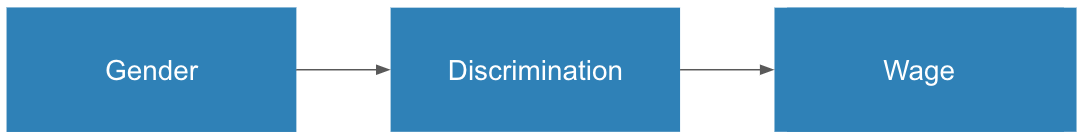
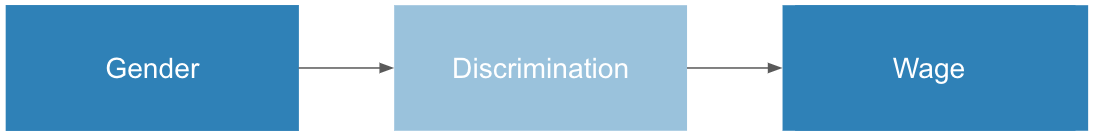
finished post

diff --git a/_posts/2020-01-20-what-are-we-normalizing.md b/_posts/2020-01-20-what-are-we-normalizing.md
@@ -5,9 +5,9 @@ title: What are we normalizing for?
 
 Statistics is the science of answering questions through the data.
 
-The gender pay gap debate falls victim to this. Part of the reason why this debate is still on-going, despite the abundance of data that exists, is that statisticians can't seem to agree how to interpret at the data.
+The gender pay gap debate falls victim to this. Part of the reason why this debate is still on-going, despite the abundance of data that exists, is that **statisticians can't seem to agree on how to interpret the data**.
 
-Before going further, I'd like to say that I'm not taking a position on the gender wage gap. I just want to highlight the deficiencies in these debates and to offer an alternative way to think about these debates, as well as a framework for thinking about statistical claims in general. Namely, **these debates make no sense without first agreeing on an underlying model of how the data is generated**.
+Before going further, I'd like to say that I'm not taking a position on the gender wage gap. I just want to highlight the deficiencies in these debates and to offer a framework for thinking about statistical claims in general. Namely, **these debates make no sense without first agreeing on an underlying model of how the data is generated**.
 
 The question most sociologists are debating is this:
 
@@ -17,21 +17,31 @@ Here's an alternative view of this question:
 
 ![image]({{ site.baseurl }}/images/normalization/wage-gap-question.png)
 
-Because "discrimination" isn't really measurable in the traditional sense, it's unobservable. Instead, we measure the correlation between the two observable variables in this diagram. Gender and wage.
+This diagram specifies a plausible mechanism for producing data that shows a wage gap. To put it another way, this is a model of the data generation process. It specifies causal effects different factors have on each other (gender causes discrimination which causes a wage gap).
+
+Because "discrimination" isn't really measurable in the traditional sense, it's unobservable, which is why I colored it lighter. Instead, sociologists measure the correlation between the two observable variables in this diagram, gender and wage, which show that women on aggregate make 82% of men.
 
 ### Wait... Correlation is not Causation?
 
-It's a well established fact that women on average make 82% of men. But, if you recall from high school statistics: "correlation does not imply causation".
+The fact that there is a wage gap is indisputable, so why is this still an ongoing debate? If you recall from high school statistics: "correlation does not imply causation".
 
-When Jordan Peterson was confronted with this fact, he argued _"If you're a social scientist worth your salt, you never do a univariate analysis"_. What he means is that we need to normalize for certain factors. One factor he mentions is occupation. Let's think about that a bit deeper.
+Sociologist Jordan Peterson was confronted with this fact in [an interview](https://www.youtube.com/watch?v=Xg2psply4no&t=92s) about the wage gap. He argued _"If you're a social scientist worth your salt, you never do a univariate analysis"_. What he means is that we need to normalize for many factors before concluding that discrimination is the cause for the wage gap. One factor he mentions is occupation. Let's think about that a bit deeper.
 
-What Peterson arguing is that perhaps, one of the reason for men making more than women is actually due to differences in occupations. Maybe through a mechanism like this:
+What Dr. Peterson arguing is that perhaps one of the reasons men make more than women is actually due to differences in choices of occupation between men and women. Maybe through a mechanism like this:
 
-![image]({{ site.baseurl }}/images/normalization/no-discrimination.png)
+![image]({{ site.baseurl }}/images/normalization/no-discrimination-1.png)
+
+This causal diagram suggests a different mechanism than the one we saw earlier. Women tend to choose different occupations than men. These occupations are lower paying. Therefore, women make less than men. The diagram shows both discrimination and occupational choices contribute to the wage gap. In order to quantify how much discrimination contributes, Dr. Peterson argues we need to **normalize for occupational** choices.
+
+If we do this, we will find that a significant amount of the wage gap "disappears" after normalizing for occupation. Dr. Peterson would perhaps argue that the world behaves more like this:
+
+![image]({{ site.baseurl }}/images/normalization/no-discrimination-2.png)
+
+Where differences in occupational choices contributes much more to the wage gap than discrimination does.
 
 ### Sidebar on Statistical Confounders
 
-In this case, age is a **confounder**. It creates a correlation between two variables where no causation exists. These are found everywhere in statistics. For instance, there is a correlation between the amount of milk consumption per capita, and the number of Nobel prizes a country wins.
+In this case, occupation is a **confounder** of the question we are trying to answer. It creates a **correlation** between two variables where no **causation** exists. These are found everywhere in statistics. For instance, there is a correlation between the amount of milk consumption per capita, and the number of Nobel prizes a country wins.
 
 ![image]({{ site.baseurl }}/images/normalization/chocolate-vs-nobel-prizes.jpg)
 
@@ -41,47 +51,38 @@ Astoundingly, [some people](https://healthland.time.com/2012/10/12/can-eating-ch
 
 > For the U.S. (to win one additional Nobel prize), we should consume an extra 125 million kg (275.6 million lbs.) of chocolate a year.
 
-Indeed, this correlation is likely due to a confounder: wealth. We can see this is we plot wealth vs Nobel prizes. (Countries that have more to spend on chocolate probably also have more to spend on education).
+Indeed, this correlation is likely due to a confounder: wealth. We can see this if we plot wealth vs Nobel prizes. (Countries that have more to spend on chocolate probably also have more to spend on education).
 
 ![image]({{ site.baseurl }}/images/normalization/wealth-vs-nobel-prizes.jpg)
 
-If we normalize against wealth, we would see that the correlation between Nobel prizes / wealth and chocolate is weaker.
+If we normalize against wealth, we would see that the correlation between Nobel prizes and chocolate is weaker.
 
-Jordan Peterson is essentially arguing that age may well have an effect on the gender vs wage correlation the same way wealth affects the Nobel prize vs chocolate correlation.
+Dr. Peterson is essentially arguing that occupation has an effect on the gender vs wage correlation the same way wealth affects the Nobel prize vs chocolate correlation.
 
-We can apply the same remedy: normalize against occupation, which case, the correlation is demonstrated to be weaker.
-
-### Damn these Confounding Confounders
-
-In this case, we implicitly creating a model of the world:
-
-![image]({{ site.baseurl }}/images/normalization/dag-wealth-nobel-prizes.png)
-
-However, we are back to the same problem. Is there another confounder of this correlation? I can again introduce another confounder.
-
-Since our understanding of genetics is limited, this confounder may well be unprovable.
-
-Therein lies the fundamental weakness in statistics. **Statistics can only demonstrate correlation, never prove causation**.
+We can apply the same remedy: normalize against occupation, which case, the correlation is shown to be weaker. Indeed, this is the cause many [publications](https://www.heritage.org/jobs-and-labor/commentary/pay-gap-myth-ignores-womens-intentional-job-choices) [point](https://www.theatlantic.com/business/archive/2016/07/paygap-discrimination/492965/) to to explain the wage gap.
 
 ### What are we normalizing for?
 
-I hope I've convinced you that while data is objective, the interpretation (and therefore, utility) of data is highly subjective. Statisticians try to get around this by normalizing for every potential confounder, as a means of uncovering the true relationship between gender and wage. Age, personality, occupation, college education, marital status, etc. But, this can also cause problems. Let's create a model of the data generation process to see why.
+I hope I've convinced you that while data is objective, the interpretation (and therefore, utility) of data is highly subjective. Statisticians try to get around this by **normalizing for every potential confounder**, as a means of uncovering the true relationship between gender and wage. Age, personality, occupation, college education, marital status, etc. But, this causes other serious problems, that people often dismiss.
 
-In this model, it makes sense to normalize against occupation, since it's a confounder. The story this model tells is that women tend to choose different (lower paying) occupations than men do, and therefore, this explain's some of the wage difference. Indeed, this is an argument that is made by people who claim the wage gap isn't as big as first glance.
+Let's pull up the occupation confounder diagram again.
+
+![image]({{ site.baseurl }}/images/normalization/no-discrimination.png)
+
+In this model, it makes sense to normalize against occupation, since it's a confounder. The story this model tells is that women tend to choose different (lower paying) occupations than men do, and therefore, this explains some of the wage difference.
 
 However, here is an alternative model of the data generation process:
+
+![image]({{ site.baseurl }}/images/normalization/yes-discrimination.png)
 
 This model tells a completely different story. In this model, women choose different occupations due to discriminatory pressures.
 
 In this case, **normalizing occupation removes the very mechanism through which women are underpaid due to discrimination**. To put it another way, if we only look at women in high paying occupations, they would make the same as men. But women are denied access to these higher paying jobs due to discrimination. Normalizing for occupation hides this.
 
-The issue is that model 1 and model 2 can produce the exact same data, due to the fact that the "discrimination" variable is not measurable. Even if it is measurable, someone else can come along and suggest another unmeasurable confounder of discrimination vs wage.
+The issue is that model 1 and model 2 can produce the exact same data, due to the fact that the "discrimination" variable is not measurable, therefore, it is often difficult to "prove" which model is the true data generation process.
 
-https://www.heritage.org/jobs-and-labor/commentary/pay-gap-myth-ignores-womens-intentional-job-choices
-https://www.theatlantic.com/business/archive/2016/07/paygap-discrimination/492965/
-https://www.salon.com/2019/02/19/why-women-are-dropping-out-of-stem-careers/
-https://hbr.org/2016/08/why-do-so-many-women-who-study-engineering-leave-the-field
+### Where to go from here
 
-https://healthland.time.com/2012/10/12/can-eating-chocolate-help-you-win-a-nobel-prize/
+I don't have an answer, but I think instead of assuming that the most valid statistical study is the one that normalizes for the most factors, we could be more thoughtful about the underlying causal process that creates the data. For this wage gap question to be adequately answered, sociologists need to reach a consensus on this causal model.
 
-Thanks to the fantastic work of Judea Pearl. If this was interesting, check out his [book](https://www.amazon.com/Book-Why-Science-Cause-Effect/dp/046509760X).
+If this was interesting, check out Judea Pearl's fantastic [book](https://www.amazon.com/Book-Why-Science-Cause-Effect/dp/046509760X).
